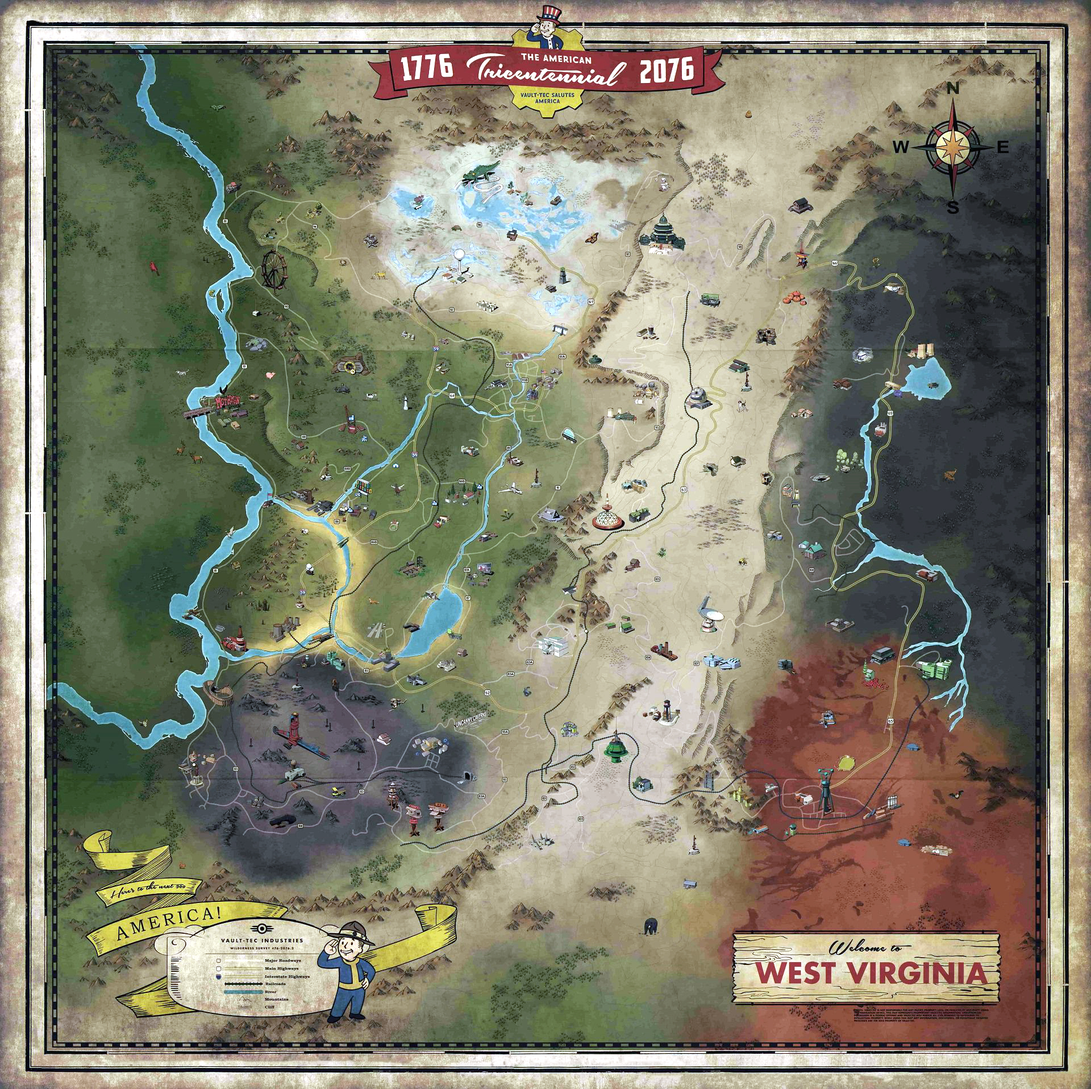
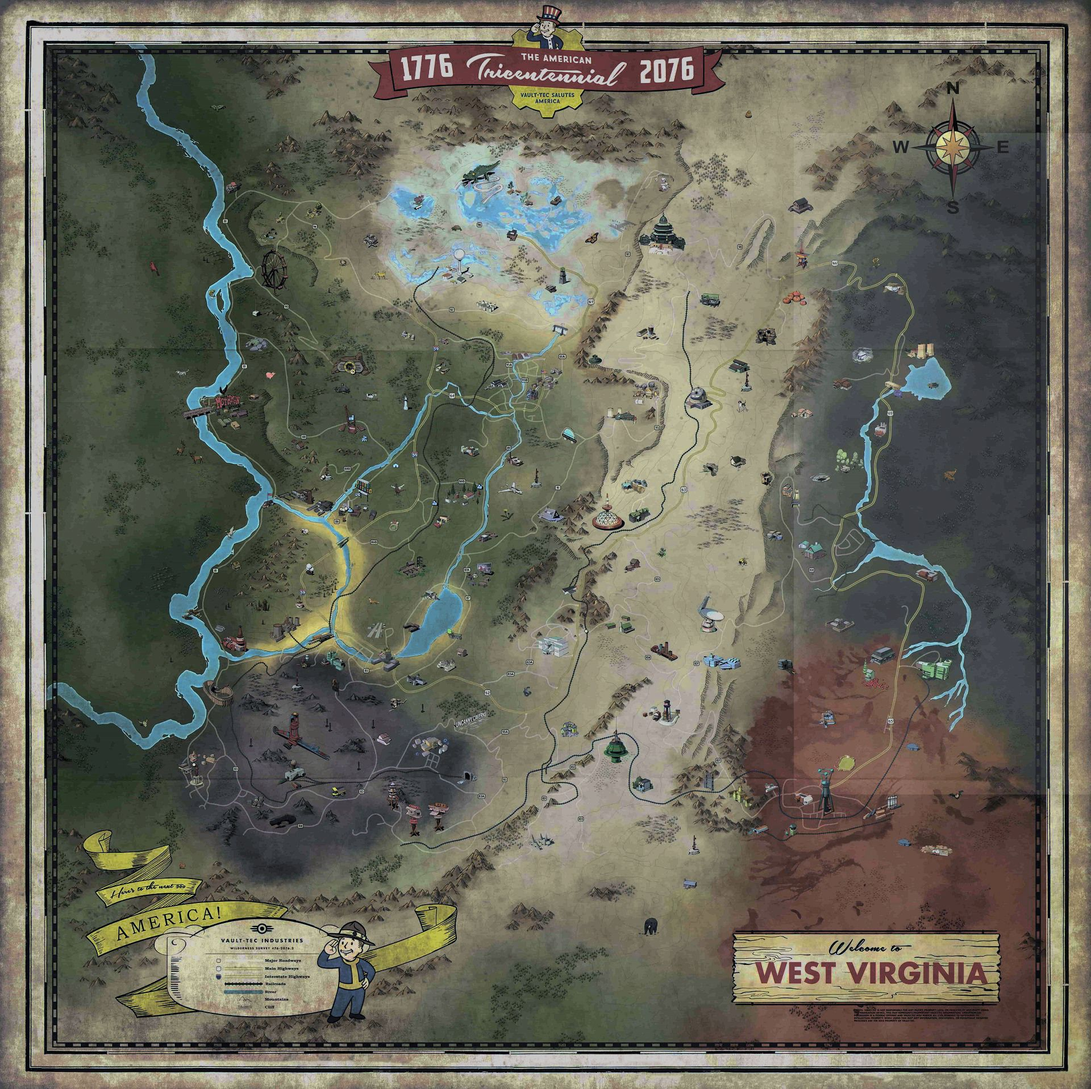
Got map toggling to work - finally!

diff --git a/client/src/pages/MapPage/MapPage.js b/client/src/pages/MapPage/MapPage.js
@@ -3,17 +3,21 @@ import Jumbotron from "../../components/Jumbotron";
 import DeleteBtn from "../../components/DeleteBtn";
 import { Col, Row, Container } from "../../components/Grid";
 import { List, ListItem } from "../../components/List";
-import { Input, TextArea, FormBtn } from "../../components/Form";
+import { Checkbox } from "../../components/Form";
 import MapWrapper from "../../components/MapWrapper";
-import MapProper from "../../components/MapProper";
+import { MapProper, MapLayer } from "../../components/Maps";
 import { ResoList } from "../../components/ResoList";
+import oil from "./../../assets/images/resmap-oil.png";
 
 class MapPage extends Component {
   state = {
     zoomedIn: true,
     text: "OH HAI",
     width: 0,
-    height: 0
+    height: 0,
+    maps: [
+      { name: "oil", bckgrnd: oil, layer: 1, show: true,checked: true }
+    ]
   };
 
   // constructor(props) {
@@ -37,27 +41,58 @@ class MapPage extends Component {
   //   console.log(this.state.width, this.state.height)
   // }
 
+  handleChange = event => {
+    console.log(this.state.maps)
+    const {checked, name} = event.target;
+    console.log(checked);
+
+    // const {name, checked} = event.target;
+    // if (checked){
+    //   checked = false
+    // } else {
+    //   checked = true
+    // }
+    let index = 0;
+    let mappings = this.state.maps
+    for(let i=0;i<mappings.length;i++){
+      if (mappings[i].name === name){
+        index = i;
+      }
+    }
+    console.log(index);
+    let show = this.state.maps[index].show
+    let newStateBase = this.state;
+    console.log(newStateBase.maps[index])
+    newStateBase.maps[index].checked = checked;
+    newStateBase.maps[index].show = checked;
+    console.log(newStateBase.maps[index])
+    this.setState({state:newStateBase})
+    // this.setState({maps:[...this.state.maps[index].checked,checked]}, () => console.log(this.state))
+    // setTimeout(function(){console.log(this.state)},3000)
+  }
+
   zoomIn = () => {
 
   }
 
   render() {
+    const maps = this.state.maps;
+
     return (
       <Container fluid>
         <Row>
           <div >
             <MapWrapper zoom={this.state.zoomedIn}>
-              {this.state.zoomedIn ? (
-                <MapProper zoom={this.state.zoomedIn}>
-                  <h1> TEST TEST</h1>
-                </MapProper>
-              ) : (
-                <MapProper zoom={this.state.zoomedIn}>
-                
-                </MapProper>
+              <MapProper zoom={this.state.zoomedIn} >
+
+              </MapProper>
+              {maps.map(item =>
+                item.show ? <MapLayer key={item.name} zoom={this.state.zoomedIn} map={item} ></MapLayer> : <div key={item.name}></div>
               )}
               <ResoList text={this.state.text}>
-
+                {maps.map(item =>
+                  <Checkbox key={item.name} onChange={this.handleChange} type = 'checkbox' checked={item.checked} name={item.name} />
+                )}
               </ResoList>
             </MapWrapper>
           </div>

diff --git a/client/src/components/Maps/Maps.css b/client/src/components/Maps/Maps.css
@@ -1,0 +1,27 @@
+.MapBaseDef{
+  height: 100%;
+  width: 100%;
+  background-repeat: no-repeat;
+  background-attachment: fixed;
+  background-position: center;
+  background-size: contain;
+  cursor: zoom-in; 
+  position: absolute;
+  top: 0px;
+  left: 0px;
+}
+
+.MapBaseZoom{
+  height: 1875px;
+  width: 1880px;
+  background-repeat: no-repeat;
+  cursor: zoom-in; 
+  position: absolute;
+  top: 0px;
+  left: 0px;
+}
+
+.MapProper{
+  background-image: url('../../assets/images/basemap.jpg');
+  z-index: 0;
+}

diff --git a/client/src/components/Maps/MapLayer.js b/client/src/components/Maps/MapLayer.js
@@ -1,0 +1,13 @@
+import React from "react";
+// import {ScrollView} from "react-native";
+import "./Maps.css";
+import oil from "./../../assets/images/resmap-oil.png";
+
+const imagebase = "../../assets/images/resmap-";
+//const imagebase = "/static/media/resmap-";
+
+export const MapLayer = props =>
+    <div className={props.zoom ? ("MapBaseZoom MapLayer") : ("MapBaseDef MapLayer")} style={{ zIndex: props.map.layer,backgroundImage:`url(${props.map.bckgrnd})`}} >
+      {props.children}
+    </div>
+  ;

diff --git a/client/src/components/Maps/MapProper.js b/client/src/components/Maps/MapProper.js
@@ -1,0 +1,9 @@
+import React from "react";
+// import {ScrollView} from "react-native";
+import "./Maps.css";
+
+export const MapProper = props =>
+    <div className={props.zoom ? ("MapBaseZoom MapProper") : ("MapBaseDef MapProper")} >
+      {props.children}
+    </div>
+  ;

diff --git a/client/src/components/Form/Checkbox.js b/client/src/components/Form/Checkbox.js
@@ -1,0 +1,8 @@
+import React from "react";
+import "./input-custom.css"
+
+export const Checkbox = props =>
+  <div className="form-group">
+    <label htmlFor={props.name}>{props.name}</label>
+    <input className="checkbox" {...props} />
+  </div>;

diff --git a/client/src/components/ResoList/ResoList.css b/client/src/components/ResoList/ResoList.css
@@ -5,5 +5,7 @@
   /* height: 40px;
   width: 20px; */
   border: 3px solid white;
-  background-color: rgba(200,200,200,1)
+  background-color: rgba(200,200,200,1);
+  cursor: context-menu !important;
+  z-index: 1000;
 }

diff --git a/client/src/components/ResoList/ResoList.js b/client/src/components/ResoList/ResoList.js
@@ -4,4 +4,5 @@ import "./ResoList.css"
 export const ResoList = props =>
   <div className="ResoList">
     <h1>{props.text}</h1>
+    {props.children}
   </div>;

diff --git a/client/src/components/Form/index.js b/client/src/components/Form/index.js
@@ -1,3 +1,4 @@
 export * from "./Input";
 export * from "./TextArea";
 export * from "./FormBtn";
+export * from "./Checkbox";

diff --git a/client/src/components/Form/input-custom.css b/client/src/components/Form/input-custom.css
@@ -1,0 +1,4 @@
+.checkbox{
+  height: auto !important;
+  display: inline-block
+}

diff --git a/client/src/components/Maps/index.js b/client/src/components/Maps/index.js
@@ -1,0 +1,2 @@
+export * from './MapProper';
+export * from './MapLayer';
